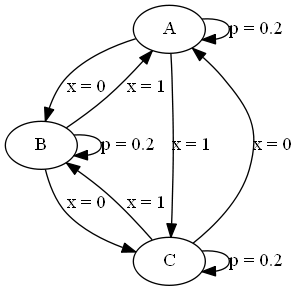
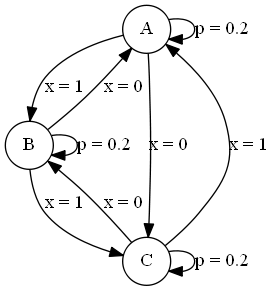
circles for states

diff --git a/visual_driven_mc.py b/visual_driven_mc.py
@@ -2,15 +2,15 @@
 import graphviz as gv
 
 g1 = gv.Digraph(format='png')
-g1.node('0',label="A")
-g1.node('1', label="B")
-g1.node('2', label="C")
-g1.edge('0', '1',label='x = 0')
-g1.edge('1', '2',label='x = 0')
-g1.edge('2', '0',label='x = 0')
-g1.edge('0', '2',label='x = 1')
-g1.edge('2', '1',label='x = 1')
-g1.edge('1', '0',label='x = 1')
+g1.node('0',label="A",shape='circle')
+g1.node('1', label="B",shape='circle')
+g1.node('2', label="C",shape='circle')
+g1.edge('0', '1',label='x = 1')
+g1.edge('1', '2',label='x = 1')
+g1.edge('2', '0',label='x = 1')
+g1.edge('0', '2',label='x = 0')
+g1.edge('2', '1',label='x = 0')
+g1.edge('1', '0',label='x = 0')
 g1.edge('1','1',label='p = 0.2')
 g1.edge('2','2',label='p = 0.2')
 g1.edge('0','0',label='p = 0.2')
